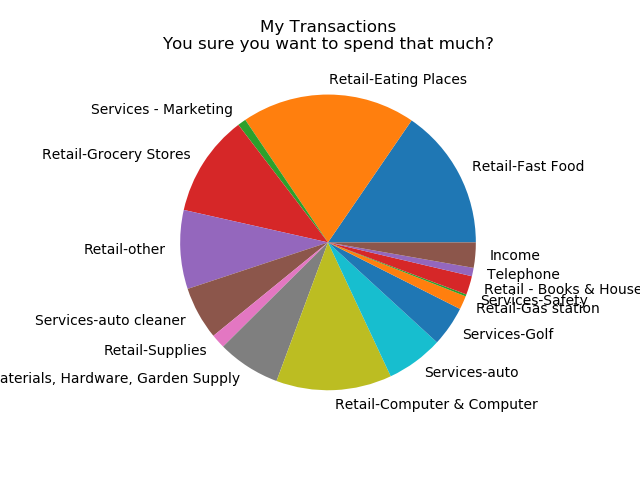
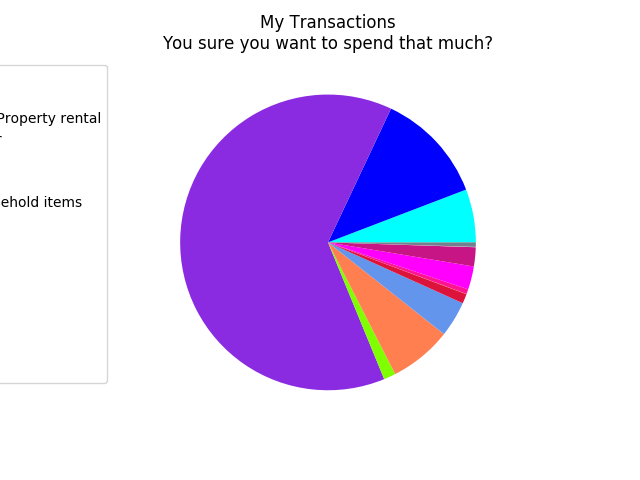
Added stuff

diff --git a/Chart_Choose.py b/Chart_Choose.py
@@ -1,5 +1,8 @@
 from transactions import import_data
 import matplotlib.pyplot as plt
+import pprint
+from tkinter import *
+import sys
 
 def category_chart(client):
     transactions = import_data()
@@ -12,35 +15,68 @@ def category_chart(client):
                 amount = amount.strip(')')
                 amount = float(amount)
                 total += amount
-            if not i.category in trans_type:
-                trans_type[i.category] = amount
-            else:
-                trans_type[i.category] += amount
+                if not i.category in trans_type:
+                    trans_type[i.category] = amount
+                else:
+                    trans_type[i.category] += amount
+                trans_type[i.category] = round(trans_type[i.category], 2)
+    total = round(total, 2)
     return trans_type, total
 
 def piechart():
     plt.clf()
-    data, total = category_chart('Jerry Maguire')
+    data, total = category_chart('Bat Man')
     plt.rcParams["figure.figsize"] = [24, 12]
     labels = [k for k in data]
-    plt.pie([float(v) for v in data.values()], labels=[k for k in data],
-           autopct=None)
+
+    colors = ['#00FFFF','#0000FF','#8A2BE2','#7FFF00','#FF7F50','#6495ED','#DC143C','#FF8C00','#FF1493',
+              '#FF00FF','#C71585','#FFC0CB','#708090','#FFFF00','#000080','#B0C4DE']
+
+    plt.pie([float(v) for v in data.values()], autopct=None, colors=colors)
     plt.title('My Transactions\nYou sure you want to spend that much?')
-    # plt.legend(labels, loc='left center',bbox_to_anchor=(-0.08,1.),fontsize=10)
-    #plt.show()
-    plt.savefig('pie.png')
+    plt.legend(labels, loc='best',bbox_to_anchor=(-0.08,1.),fontsize=10)
+    plt.show()
+    #plt.savefig('pie.png')
 
 def barchart():
     plt.clf()
-    data, total = category_chart('Jerry Maguire')
+    data, total = category_chart('Bat Man')
     plt.rcParams["figure.figsize"] = [24, 12]
     names = list(data.keys())
     values = list(data.values())
     from matplotlib import rcParams
     rcParams.update({'figure.autolayout': True})
-    plt.barh(range(len(data)),values,tick_label=names)
+    plt.barh(range(len(data)), values, tick_label=names)
     plt.xlabel('Types of Transactions')
     plt.ylabel('Amount Spent')
     plt.title('Your Transaction Breakdown')
-    #plt.show()
-    plt.savefig('bar.png')
+    plt.show()
+    #plt.savefig('bar.png')
+
+
+def print_amounts(client):
+    transactions, total = category_chart(client)
+    print("Your Total Expenses were " + str(total))
+    print("Breakdown By Category: ")
+    pprint.pprint(transactions)
+    while input("Press Enter to Continue to View Graph Breakdown") != '':
+        pass
+
+
+def callback(number):
+    if number == 1:
+        barchart()
+    elif number == 2:
+        piechart()
+
+
+def main():
+    print_amounts(sys.argv[1])
+    window = Tk()
+    window.title('Pick a Chart!')
+    window.geometry('150x75')
+    Button(text="Bar Chart", command=lambda: callback(1)).pack()
+    Button(text="Pie Chart", command=lambda: callback(2)).pack()
+    window.mainloop()
+
+main()

diff --git a/Amount_GUI.py b/Amount_GUI.py
@@ -1,0 +1,55 @@
+from tkinter import *
+from tkinter import Menu
+from transactions import import_data
+data=import_data()
+
+window = Tk()
+window.title("Welcome to LikeGeeks app")
+menu = Menu(window)
+
+def clicked():
+    print('Hello')
+new_item = Menu(menu)
+new_item.add_command(label='Retail-Eating Places',command=clicked)
+
+new_item.add_separator()
+new_item.add_command(label='Retail-Fast Food')
+
+new_item.add_separator()
+new_item.add_command(label='eTransfer- Vacation Property Rental')
+
+new_item.add_separator()
+new_item.add_command(label='Services-auto cleaner')
+
+new_item.add_separator()
+new_item.add_command(label='Retail-Gas Station')
+
+new_item.add_separator()
+new_item.add_command(label='Hotels $ Motels')
+
+new_item.add_separator()
+new_item.add_command(label='Retail - Books and Household items')
+
+new_item.add_separator()
+new_item.add_command(label='Retail-Auto Glass')
+
+new_item.add_separator()
+new_item.add_command(label='Retail-Corner Store')
+
+new_item.add_separator()
+new_item.add_command(label='Retail-Grocery Stores')
+
+new_item.add_separator()
+new_item.add_command(label='Retail-Boat Supply')
+
+new_item.add_separator()
+new_item.add_command(label='Retail-Supplies')
+
+
+new_item.add_separator()
+new_item.add_command(label='Services-Safety')
+
+
+menu.add_cascade(label='File', menu=new_item)
+window.config(menu=menu)
+window.mainloop()

diff --git a/Test.py b/Test.py
@@ -1,0 +1,39 @@
+import tkinter as tk
+from PIL import ImageTk, Image
+
+
+def next(panel):
+    path = "bar.png"
+    img = ImageTk.PhotoImage(Image.open(path))
+    panel.configure(image=img)
+    panel.image = img # keep a reference!
+
+def prev(panel):
+    path = "pie.png" #alternate
+    img = ImageTk.PhotoImage(Image.open(path))
+    panel.configure(image=img)
+    panel.image = img # keep a reference!
+
+
+window = tk.Tk()
+window.title("Welcome to Financial Fitness")
+lbl = tk.Label(window, text="Here is your spending history!",font=("Garamond", 40))
+
+
+top = tk.Frame(window)
+top.pack(side="top")
+bottom = tk.Frame(window)
+bottom.pack(side="bottom")
+
+path = 'finfit.png' #this is the image displayed first
+img = ImageTk.PhotoImage(Image.open(path))
+panel = tk.Label(window, image = img)
+panel.image = img # keep a reference!
+panel.pack(side = "top", fill = "both", expand = "yes")
+
+prev_button = tk.Button(window, text="Previous", width=10, height=2, command=lambda: prev(panel))
+prev_button.pack(in_=bottom, side="left")
+next_button = tk.Button(window, text="Next", width=10, height=2, command=lambda: next(panel))
+next_button.pack(in_=bottom, side="right")
+
+window.mainloop()

diff --git a/IPWebCam2.py b/IPWebCam2.py
@@ -1,0 +1,29 @@
+from tkinter import *
+import urllib.request
+import cv2
+import numpy as np
+import sys
+url = 'http://172.31.21.206:8080/shot.jpg'
+
+window = Tk()
+window.title("Welcome to IPCamera App")
+window.geometry('350x200')
+
+def callback(img):
+
+    print ("clicked!")
+    cv2.imwrite('receiptImage.png', img)
+    sys.exit(0)
+
+
+while True:
+    imgResp = urllib.request.urlopen(url)
+    imgNp = np.array(bytearray(imgResp.read()),dtype=np.uint8)
+    img = cv2.imdecode(imgNp, -1)
+    cv2.imshow('test',img)
+    b = Button(text="click me", command=callback)
+    b.pack()
+    window.mainloop()
+    if ord('q')==cv2.waitKey(10):
+        exit(0)
+

diff --git a/IPWebcam.py b/IPWebcam.py
@@ -19,9 +19,10 @@ class button:
 
 window.mainloop()
 
-btn=button
-prev_button = tk.Button(window, text="Take Photo", width=10, height=2, command=lambda: prev(panel))
-prev_button.pack(in_=bottom, side="left")
+btn=button()
+window.CreateButton().onclick(btn.click) #tk.Button(window, text="Bar Chart", width=10, height=2, command=lambda: prev(panel))
+prev_button = tk.Button(window, text="Bar Chart", width=10, height=2, command=lambda: prev(panel))
+    prev_button.pack(in_=bottom, side="left")
 while self.clicked == True:
    imgResp = urllib.request.urlopen(url)
    imgNp = np.array(bytearray(imgResp.read()),dtype=np.uint8)

diff --git a/Oldcrap/transactions.py b/Oldcrap/transactions.py
@@ -23,5 +23,3 @@ def import_data():
 
 def main():
 	transaction_list = import_data()
-
-main()

diff --git a/basicgui_2.py b/basicgui_2.py
@@ -42,4 +42,3 @@ def create_window():
 
     window.mainloop()
 
-create_window()
